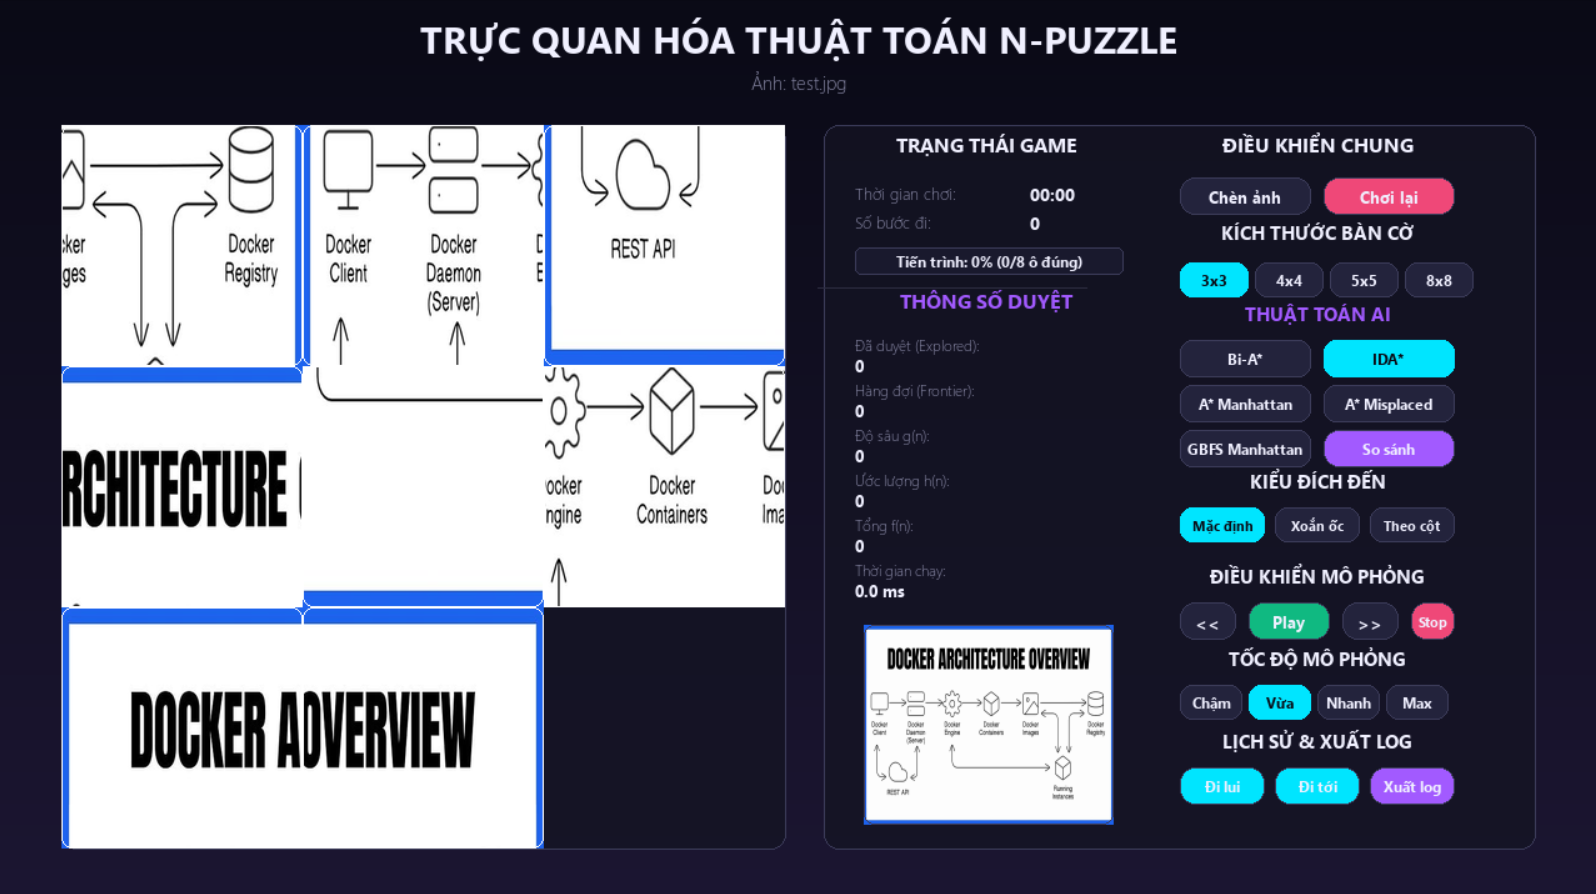
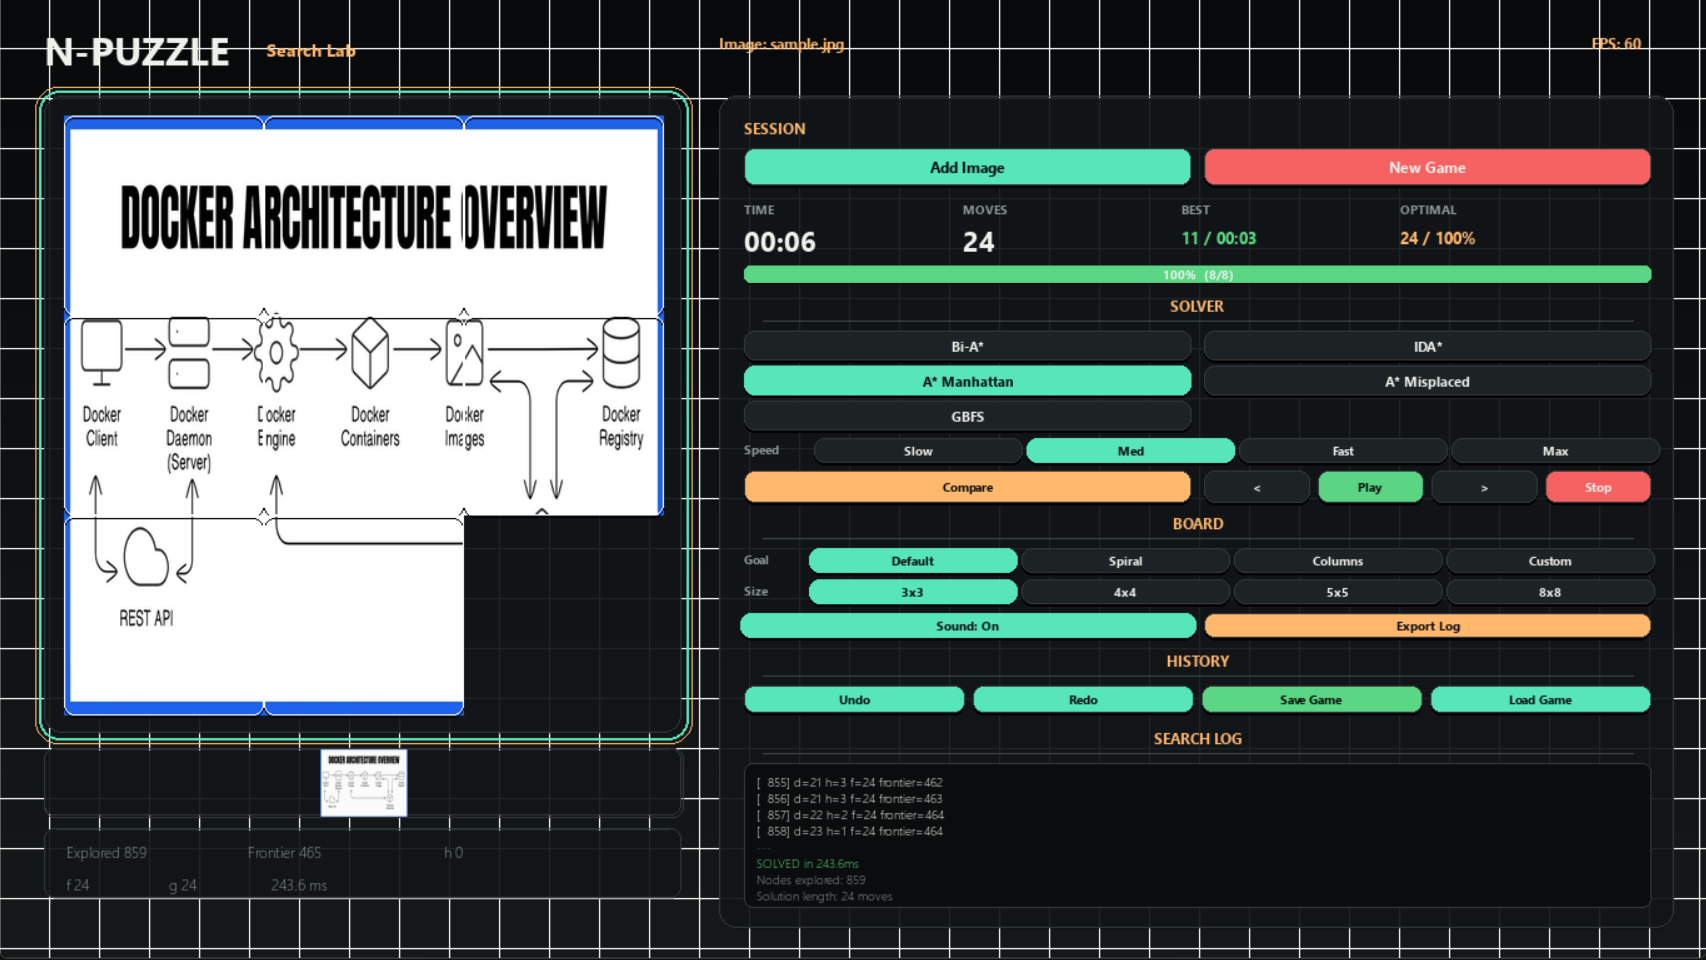
add: pictures, and change somes text in ui (this is end commit)

diff --git a/ui_statistics.py b/ui_statistics.py
@@ -56,12 +56,11 @@ class GameDashboard:
         # ── Header ──
         self.elements.append(Label((BOARD_X, 20), "N-PUZZLE", font_size=31, bold=True))
         self.elements.append(Label((BOARD_X + 178, 31), "Search Lab", font_size=14, color=t("secondary"), bold=True))
-        self.image_label = Label((PANEL_X, 28), "Image: Digits",
-                                 font_size=12, color=t("subtext"))
+        self.image_label = Label((PANEL_X, 28), "Image: Digits",font_size=12, bold=True, color=t("secondary"))
         self.elements.append(self.image_label)
 
         # FPS counter
-        self.fps_label = Label((SCREEN_W - 92, 28), "FPS: 60", font_size=11, color=t("subtext"))
+        self.fps_label = Label((SCREEN_W - 92, 28), "FPS: 60", font_size=12, bold=True, color=t("secondary"))
         self.elements.append(self.fps_label)
 
         # ── Left: Board ──